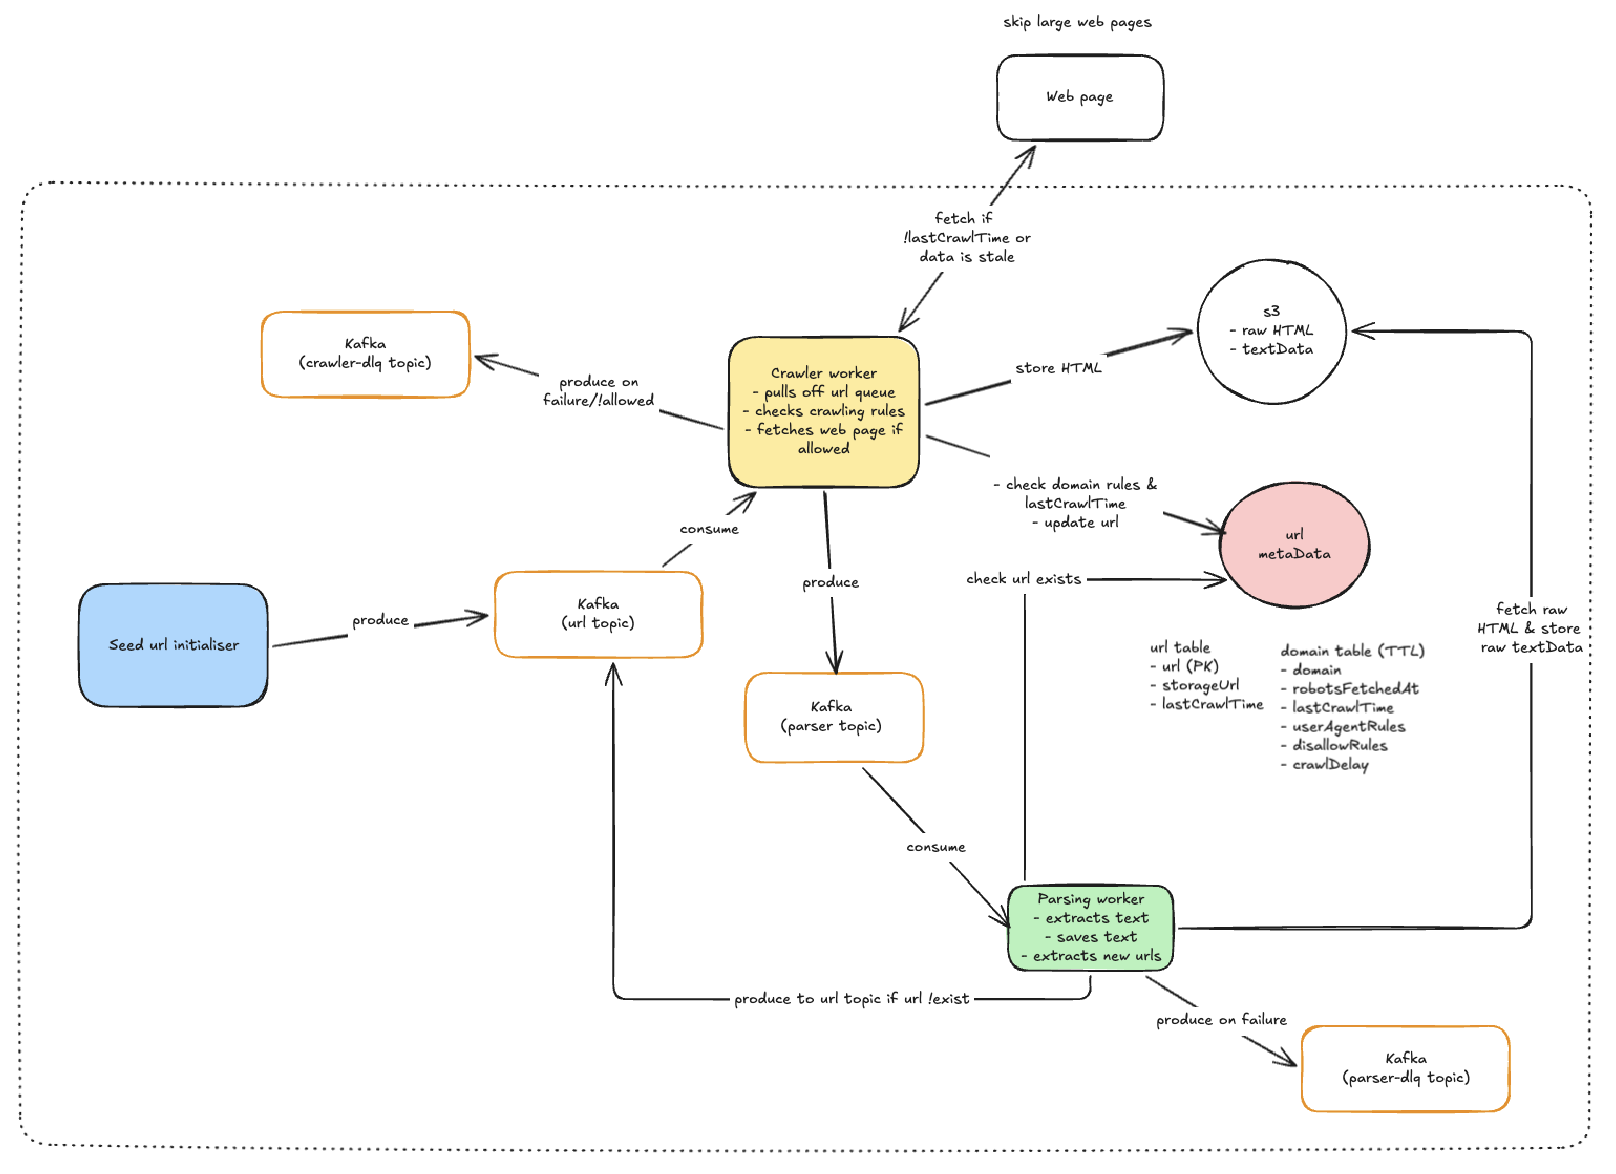
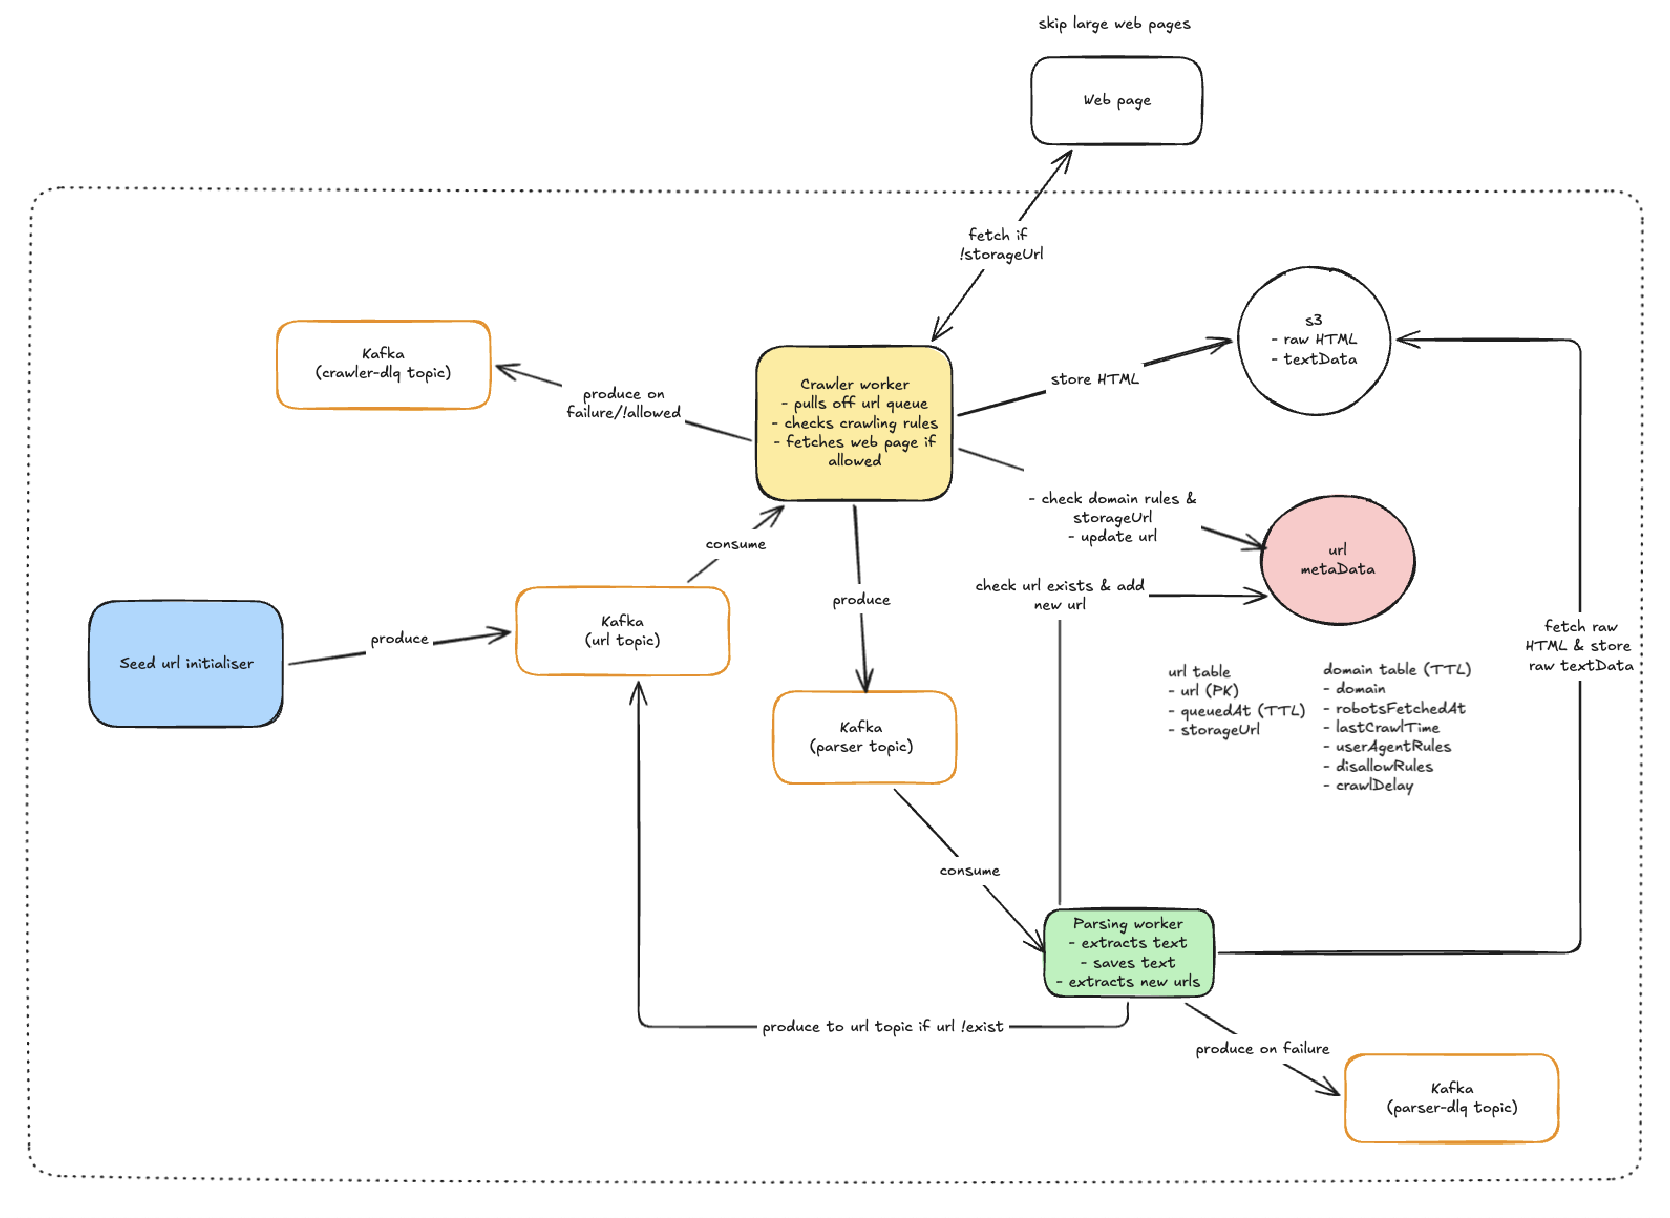
concurrent safe dedup check in parser consumer through mongo bulk insert & add TTL on queuedAt

diff --git a/services/parser/consumer/consumer.go b/services/parser/consumer/consumer.go
@@ -15,6 +15,7 @@ import (
 	"github.com/segmentio/kafka-go"
 	"go.mongodb.org/mongo-driver/bson"
 	"go.mongodb.org/mongo-driver/mongo"
+	"go.mongodb.org/mongo-driver/mongo/options"
 	"golang.org/x/net/html"
 
 	"github.com/marie20767/web-crawler/services/parser/config"
@@ -31,6 +32,10 @@ const (
 	kafkaMaxBatchSize = 10e6 // 10MB
 
 	dbTimeout = 5 * time.Second
+
+	mongoDuplicateKeyErr = 11000
+
+	crawledExpiry = 14 * 24 * time.Hour
 )
 
 type Consumer struct {
@@ -65,6 +70,10 @@ func New(ctx context.Context, kafkaCfg *config.Kafka, awsCfg *config.AWS, dbCfg 
 	dbClient, err := shareddb.New(ctx, dbCfg.Uri)
 	if err != nil {
 		return nil, fmt.Errorf("connect to db %v", err)
+	}
+
+	if err := dbClient.CreateTTLIndex(ctx, dbCfg.Name, dbCfg.Collection, "queuedAt", crawledExpiry); err != nil {
+		return nil, fmt.Errorf("create TTL index: %v", err)
 	}
 
 	return &Consumer{
@@ -209,44 +218,49 @@ func isResourceURL(u *url.URL) bool {
 	return false
 }
 
-func (c *Consumer) getUniqueURLs(ctx context.Context, parsedURLs []string) (unique []string, err error) {
+func (c *Consumer) getUniqueURLs(ctx context.Context, parsedURLs []string) ([]string, error) {
+	if len(parsedURLs) == 0 {
+		return nil, nil
+	}
+
+	seen := make(map[string]struct{}, len(parsedURLs))
+	deduped := make([]string, 0, len(parsedURLs))
+	for _, u := range parsedURLs {
+		if _, ok := seen[u]; !ok {
+			seen[u] = struct{}{}
+			deduped = append(deduped, u)
+		}
+	}
+
 	dbCtx, cancelDbCtx := context.WithTimeout(ctx, dbTimeout)
 	defer cancelDbCtx()
 
-	duplicates := make([]string, 0, len(parsedURLs))
-
-	filter := bson.M{
-		"_id": bson.M{"$in": parsedURLs},
+	models := make([]mongo.WriteModel, len(deduped))
+	for i, u := range deduped {
+		models[i] = mongo.NewInsertOneModel().SetDocument(bson.M{"_id": u, "queuedAt": time.Now()})
 	}
-	cursor, err := c.db.collection.Find(dbCtx, filter)
-	if err != nil {
-		return nil, fmt.Errorf("fetch duplicate URLs from db %v", err)
-	}
-	defer cursor.Close(dbCtx) //nolint:errcheck
 
-	for cursor.Next(dbCtx) {
-		var duplicate struct {
-			URL string `bson:"_id"`
+	_, err := c.db.collection.BulkWrite(dbCtx, models, options.BulkWrite().SetOrdered(false))
+	if err == nil {
+		return deduped, nil
+	}
+
+	var bulkErr mongo.BulkWriteException
+	if !errors.As(err, &bulkErr) {
+		return nil, fmt.Errorf("bulk insert URLs: %v", err)
+	}
+
+	alreadySeen := make(map[string]struct{}, len(bulkErr.WriteErrors))
+	for _, we := range bulkErr.WriteErrors {
+		if we.Code != mongoDuplicateKeyErr {
+			return nil, fmt.Errorf("insert URL into db: %v", we.Message)
 		}
-		err := cursor.Decode(&duplicate)
-		if err != nil {
-			return nil, fmt.Errorf("decode duplicate URL %v", err)
-		}
-
-		duplicates = append(duplicates, duplicate.URL)
+		alreadySeen[deduped[we.Index]] = struct{}{}
 	}
 
-	if err := cursor.Err(); err != nil {
-		return nil, fmt.Errorf("iterate duplicate URLs: %v", err)
-	}
-
-	seen := make(map[string]struct{}, len(duplicates))
-	for _, d := range duplicates {
-		seen[d] = struct{}{}
-	}
-	unique = make([]string, 0, len(parsedURLs))
-	for _, u := range parsedURLs {
-		if _, ok := seen[u]; !ok {
+	unique := make([]string, 0, len(deduped)-len(alreadySeen))
+	for _, u := range deduped {
+		if _, isDuplicate := alreadySeen[u]; !isDuplicate {
 			unique = append(unique, u)
 		}
 	}

diff --git a/services/crawler/consumer/consumer.go b/services/crawler/consumer/consumer.go
@@ -153,10 +153,7 @@ func (c *Consumer) processMessage(ctx context.Context, msg *kafka.Message) error
 	defer cancelDbCtx()
 	filter := bson.M{"_id": seedURL}
 	update := bson.M{
-		"$set": bson.M{
-			"lastCrawlTime": time.Now(),
-			"storageUrl":    storageURL,
-		},
+		"$set": bson.M{"storageUrl": storageURL},
 	}
 	_, dbErr := c.db.urlCollection.UpdateOne(dbCtx, filter, update, options.Update().SetUpsert(true))
 	if dbErr != nil {
@@ -171,7 +168,7 @@ func (c *Consumer) shouldFetchHTML(ctx context.Context, seedURL string) (bool, e
 	defer cancelDbCtx()
 
 	var doc struct {
-		LastCrawlTime time.Time `bson:"lastCrawlTime"`
+		StorageURL string `bson:"storageUrl"`
 	}
 
 	err := c.db.urlCollection.FindOne(dbCtx, bson.M{
@@ -181,15 +178,11 @@ func (c *Consumer) shouldFetchHTML(ctx context.Context, seedURL string) (bool, e
 		return false, fmt.Errorf("fetch url from db: %v", err)
 	}
 
-	cutoff := time.Now().AddDate(0, 0, -14)
-	if errors.Is(err, mongo.ErrNoDocuments) {
-		return true, nil
-	}
-	if doc.LastCrawlTime.IsZero() || doc.LastCrawlTime.Before(cutoff) {
+	if errors.Is(err, mongo.ErrNoDocuments) || doc.StorageURL == "" {
 		return true, nil
 	}
 
-	slog.Info("skipped url: data not stale", slog.String("url", seedURL))
+	slog.Info("skipped url: already crawled", slog.String("url", seedURL))
 	return false, nil
 }
 

diff --git a/shared/db/db.go b/shared/db/db.go
@@ -6,6 +6,7 @@ import (
 	"log/slog"
 	"time"
 
+	"go.mongodb.org/mongo-driver/bson"
 	"go.mongodb.org/mongo-driver/mongo"
 	"go.mongodb.org/mongo-driver/mongo/options"
 )
@@ -40,4 +41,15 @@ func (c *Client) Close(ctx context.Context) error {
 
 func (c *Client) Collection(db, collection string) *mongo.Collection {
 	return c.client.Database(db).Collection(collection)
+}
+
+func (c *Client) CreateTTLIndex(ctx context.Context, db, collection, field string, expiry time.Duration) error {
+	index := mongo.IndexModel{
+		Keys: bson.D{{Key: field, Value: 1}},
+		Options: options.Index().
+			SetExpireAfterSeconds(int32(expiry.Seconds())).
+			SetName(field + "_ttl"),
+	}
+	_, err := c.client.Database(db).Collection(collection).Indexes().CreateOne(ctx, index)
+	return err
 }
